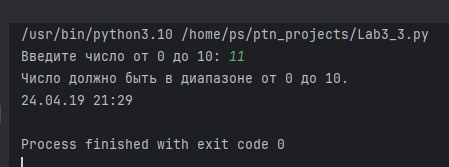
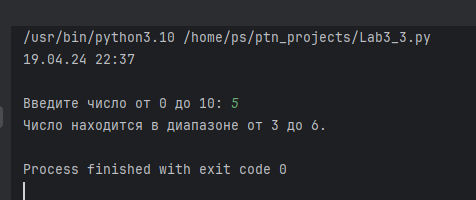
Рефакторинг

diff --git a/Lab3_4.py b/Lab3_4.py
@@ -1,6 +1,5 @@
-from datetime import datetime
-current_datetime = datetime.now()
-formatted_datetime = current_datetime.strftime('%y.%m.%d %H:%M')
+from get_datetime import get_datetime
+get_datetime()
 
 sentence = input("Введите предложение на английском: ")
 print("Длина предложения:", len(sentence))
@@ -14,5 +13,3 @@ starts_with_the = sentence.startswith("The")
 ends_with_end = sentence.endswith("end")
 print("Начинается ли предложение с 'The'?", starts_with_the)
 print("Заканчивается ли предложение на 'end'?", ends_with_end)
-
-print(formatted_datetime)

diff --git a/Lab3_3.py b/Lab3_3.py
@@ -1,7 +1,5 @@
-from datetime import datetime
-current_datetime = datetime.now()
-formatted_datetime = current_datetime.strftime('%y.%m.%d %H:%M')
-
+from get_datetime import get_datetime
+get_datetime()
 try:
     number = float(input("Введите число от 0 до 10: "))
     if not 0 <= number <= 10: print("Число должно быть в диапазоне от 0 до 10.")
@@ -10,5 +8,3 @@ try:
     else: print("Число находится в диапазоне от 6 до 10 включительно.")
 except ValueError:
     print("Необходимо ввести число.")
-
-print(formatted_datetime)

diff --git a/Lab3_5.py b/Lab3_5.py
@@ -1,6 +1,5 @@
-from datetime import datetime
-current_datetime = datetime.now()
-formatted_datetime = current_datetime.strftime('%y.%m.%d %H:%M')
+from get_datetime import get_datetime
+get_datetime()
 
 string = 'hello'
 values = [0, 2, 4, 6, 8, 10]
@@ -13,5 +12,3 @@ while counter != 10:
     print(string + memory)
     counter += 1
 print(string + ' world')
-
-print(formatted_datetime)

diff --git a/Lab3_1.py b/Lab3_1.py
@@ -1,11 +1,8 @@
-from datetime import datetime
-current_datetime = datetime.now()
-formatted_datetime = current_datetime.strftime('%y.%m.%d %H:%M')
+from get_datetime import get_datetime
+get_datetime()
 
 x = 1
 for _ in range(2):
     x *= 5
     x += 1
 print(x)
-
-print(formatted_datetime)

diff --git a/Lab3_2.py b/Lab3_2.py
@@ -1,8 +1,5 @@
-from datetime import datetime
-current_datetime = datetime.now()
-formatted_datetime = current_datetime.strftime('%y.%m.%d %H:%M')
+from get_datetime import get_datetime
+get_datetime()
 
 for char in "Hello World"[::-1]:
     print(char)
-
-print(formatted_datetime)

diff --git a/get_datetime.py b/get_datetime.py
@@ -1,0 +1,6 @@
+from datetime import datetime
+
+
+def get_datetime():
+    print(datetime.now().strftime('%d.%m.%y %H:%M'))
+    print()
